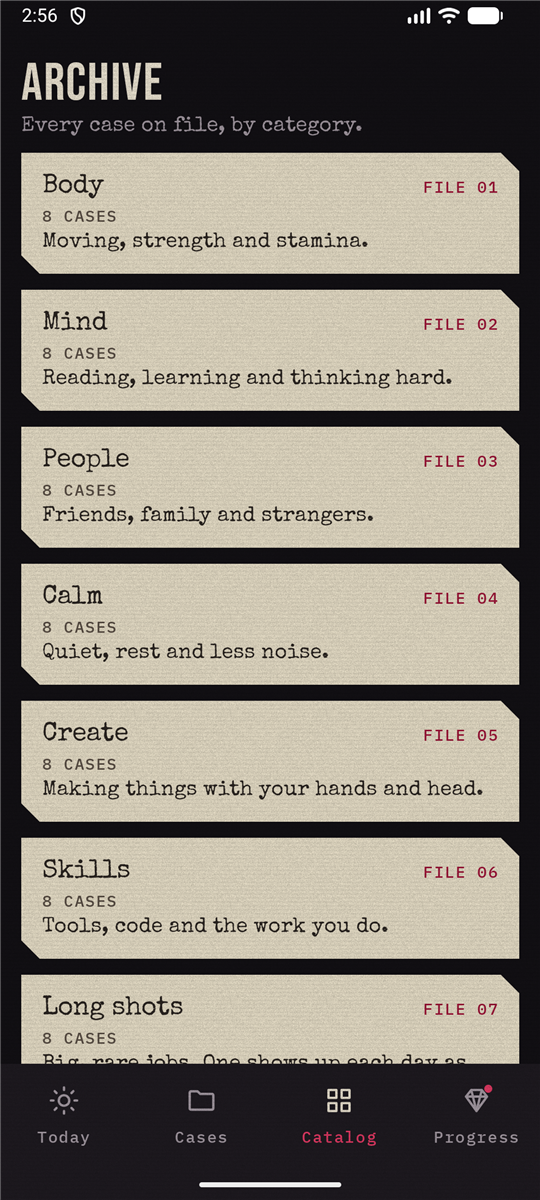
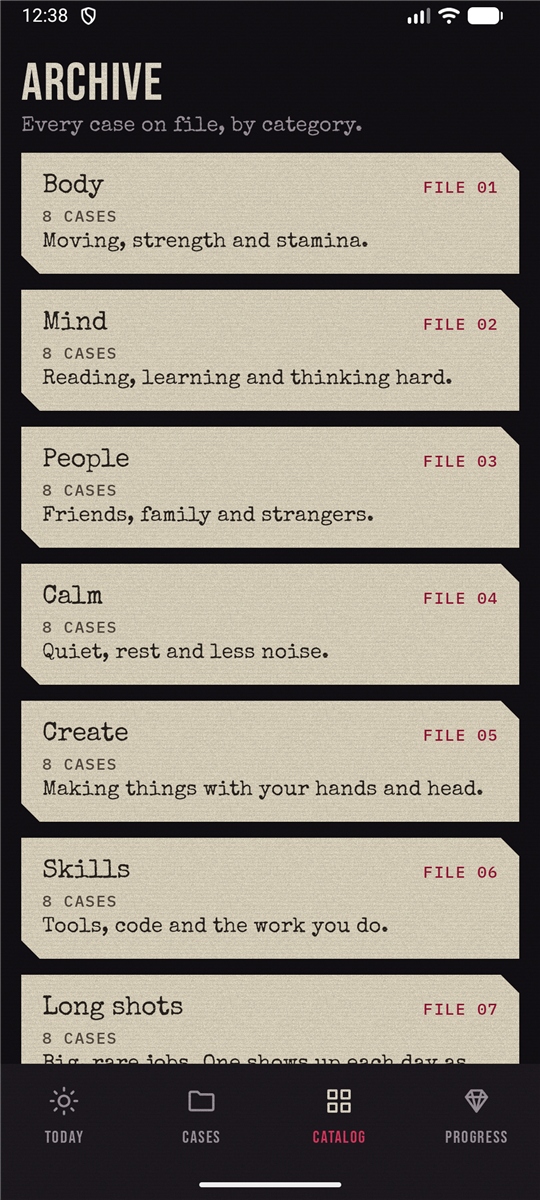
Get ready for v0.3: the README, fresh screenshots and version 0.3.0

diff --git a/README.md b/README.md
@@ -12,29 +12,41 @@ Habit apps tend to be either a plain checklist or a pile of streak pressure. Ber
 
 It works fully offline. Signing in will be optional and syncs with my own server ([roadmap](#roadmap)).
 
-This is a work in progress. Version 0.2 is the whole game, played offline as a guest, on plain Material 3. The noir case-file look comes in v0.3.
+This is a work in progress. Version 0.3 is the whole game, played offline as a guest, in its own look: a case file on a dark desk, with red beryl as the only accent.
 
-## Features in v0.2
+## Features in v0.3
 
 - **Start:** pick a name and a generated sigil. No account.
-- **Today:** the daily case, a bonus case and four picks, your rank and Lux, and how many of the day's 5 slots are used.
-- **Cases:** close a case for its Lux, or drop it for 5 Lux. Both ask first. A case still open when the day ends at 4 AM goes cold. Earlier days are listed below today's.
+- **Today:** the daily case, a bonus case and four picks, your rank and Lux, and how many of the day's 5 slots are used. The BERYLUX sign lights a letter for each day of your streak.
+- **Cases:** close a case for its Lux, or drop it for 5 Lux. Both ask first. A closed case gets the CLOSED stamp and a line from the narrator. A case still open when the day ends goes cold. Earlier days are listed below today's.
 - **Catalog:** 56 challenges in 7 categories, filtered by difficulty ([`challenges.json`](core/database/src/main/assets/seed/challenges.json)). Write your own in My cases, and change or delete them. Your own give no Lux, but they count for the streak.
-- **Progress:** six gem ranks from goshenite to red beryl, the streak with earned freezes, and 17 achievements that unlock as you play.
+- **Progress:** six gem ranks from goshenite to red beryl, each with its own gem, the streak with earned freezes, and 17 commendations that unlock as you play.
 - **Rivals:** a weekly board against five bots, each with its own habit. They're marked as bots. Their Lux comes from a seed, and the board is the same on every launch.
-- **Tests:** 197 tests on the JVM, an instrumented test of the main flow, and CI on every pull request.
+- **Profile and Settings:** change your name and sigil. Pick the hour the day starts, the theme (dark desk or case paper), the grain and scanlines, and full or reduced motion.
+- **Accessibility:** text up to 200%, TalkBack labels on every drawn piece, contrast of at least 4.5:1 in both themes, touch targets of at least 48dp.
+- **Tests:** 244 tests on the JVM, screenshot tests of the drawn pieces, an instrumented test of the main flow, and CI on every pull request.
+
+## Screenshots
+
+<p>
+  <img src="docs/screenshots/v0.3/today.png" width="160" alt="Today: the BERYLUX sign, the day's slots and the daily case on paper">
+  <img src="docs/screenshots/v0.3/cases.png" width="160" alt="Cases: a closed case with the CLOSED stamp and a narrator line">
+  <img src="docs/screenshots/v0.3/archive.png" width="160" alt="The Archive: the categories as numbered files">
+  <img src="docs/screenshots/v0.3/progress.png" width="160" alt="Progress: the rank's gem, the ruler and the streak sign">
+</p>
 
 ## Tech stack
 
 | Layer | Tools |
 |---|---|
 | Language | Kotlin 2.4, Java 17 bytecode |
-| UI | Jetpack Compose, Material 3 |
+| UI | Jetpack Compose, Material 3 under my own design system |
+| Graphics | Compose Canvas, AGSL shaders on Android 13 and newer |
 | Architecture | MVVM, one-way data flow, 18 Gradle modules with convention plugins |
 | Dependency injection | Hilt |
 | Data | Room, DataStore |
 | Navigation | Navigation 3 |
-| Testing | JUnit 4, Truth, Turbine, Robolectric, Compose UI tests |
+| Testing | JUnit 4, Truth, Turbine, Robolectric, Compose UI tests, Roborazzi screenshots |
 | Quality and CI | detekt, Android Lint, GitHub Actions |
 
 ## Architecture
@@ -62,7 +74,7 @@ core/
   database/        Room tables, DAOs, the seed and the exported schema
   datastore/       settings
   navigation/      route keys, back stacks, the navigator
-  designsystem/    theme (v0.3)
+  designsystem/    colors, type, shapes, and the drawn gems, sign, stamp and grain
   ui/              shared screen pieces
   testing/         fakes for every repository
 feature/           today, tracker, catalog, editor, progress, rivals, profile, settings
@@ -72,7 +84,7 @@ feature/           today, tracker, catalog, editor, progress, rivals, profile, s
 
 Five tables: `profiles`, `categories`, `challenges`, `cases` and `achievement_unlocks`. A case links a profile to a challenge and records its status (open, closed, cold or dropped), when it was accepted and closed, on which game day, and the Lux it earned. Deleting one of your own challenges deletes its cases with it. Streaks are counted from the days with a closed case. There's no separate streak table to keep in sync.
 
-The challenges are written to the database inside Room's own create step, before the first query can run ([`Seed.kt`](core/database/src/main/kotlin/com/anadcurukovic/berylux/core/database/seed/Seed.kt)). The schema is exported to [`core/database/schemas`](core/database/schemas). Version 2 changed a foreign key and added My cases; a test runs the migration from version 1 ([`Migrations.kt`](core/database/src/main/kotlin/com/anadcurukovic/berylux/core/database/Migrations.kt)).
+The challenges are written to the database inside Room's own create step, before the first query can run ([`Seed.kt`](core/database/src/main/kotlin/com/anadcurukovic/berylux/core/database/seed/Seed.kt)). The schema is exported to [`core/database/schemas`](core/database/schemas). Version 2 changed a foreign key and added My cases. Version 3 gave the sigil a seed of its own. Tests run both migrations ([`Migrations.kt`](core/database/src/main/kotlin/com/anadcurukovic/berylux/core/database/Migrations.kt)).
 
 ## Getting started
 
@@ -139,22 +151,22 @@ On macOS and Linux, use `./gradlew` instead of `.\gradlew.bat`.
 | The clock is an interface that tests replace | The app tests move the clock past 4 AM and check that open cases go cold and the streak moves on | Code asks the clock for the time instead of calling `Instant.now()` |
 | Rival bots play from a seed, not from a server | The board looks alive offline and never changes between launches | Bots don't react to you; an online board comes in v0.5 |
 | An achievement, once unlocked, stays | Dropping a case or deleting a challenge never takes a badge back | The badge list can show more than the current record would earn |
+| The gems, the sign, the stamp, the grain and the icon are drawn in code | No image files to license or scale, and the gem's light can move | Below Android 13 the gem is still; its light needs AGSL |
+| Screenshot tests run on the JVM with Roborazzi | CI checks the look on every pull request without an emulator | The images are recorded on Windows and compared on Linux, with 1% of pixels allowed to differ |
 
 ## Limitations
 
-- Plain Material 3 for now. The case-file look comes in v0.3.
-- Profile and Settings are placeholders. Changing your name and sigil, the day's start hour and the theme come in v0.3.
+- A whole day hasn't been played with TalkBack by hand yet. The labels are checked along a day, and a test covers the narrator line.
 - One guest profile per phone, and nothing leaves it. A backup or sync comes with accounts in v0.5.
 - No reminders yet: the app only knows about a day when you open it.
 - No APK to download yet.
-- On Android 8 in light mode, the status bar icons are dark on the dark app. The theme in v0.3 fixes it.
 - Release builds aren't shrunk with R8 yet.
 
 ## Roadmap
 
 - [x] v0.1 Foundation: rules, database, navigation, CI
 - [x] v0.2 Core loop: the whole game offline as a guest
-- [ ] v0.3 Character: the case-file and netrunner look, generated gems, the neon streak sign
+- [x] v0.3 Character: the case-file look, generated gems, the streak sign, motion and accessibility
 - [ ] v0.4 Device: reminders, a home screen widget, history and stats
 - [ ] v0.5 Cloud: optional accounts, sync and an online leaderboard, with my own API
 - [ ] v1.0 Publish: a signed APK, hardened and documented
@@ -162,7 +174,8 @@ On macOS and Linux, use `./gradlew` instead of `.\gradlew.bat`.
 ## Credits and license
 
 - Started as a university project at IBU (International Burch University), rebuilt from scratch afterwards.
-- The challenges were written for this app.
+- The challenges were written for this app. The gems, the sign, the stamp, the grain and the icon are drawn in code for it.
+- Fonts: Bebas Neue and IBM Plex Mono (SIL Open Font License 1.1), Special Elite (Apache 2.0). Their licenses are in [licenses/fonts](licenses/fonts).
 - Libraries are used under their own licenses, mostly Apache 2.0.
 - License: Apache 2.0. See [LICENSE](LICENSE) and [NOTICE](NOTICE).
 
